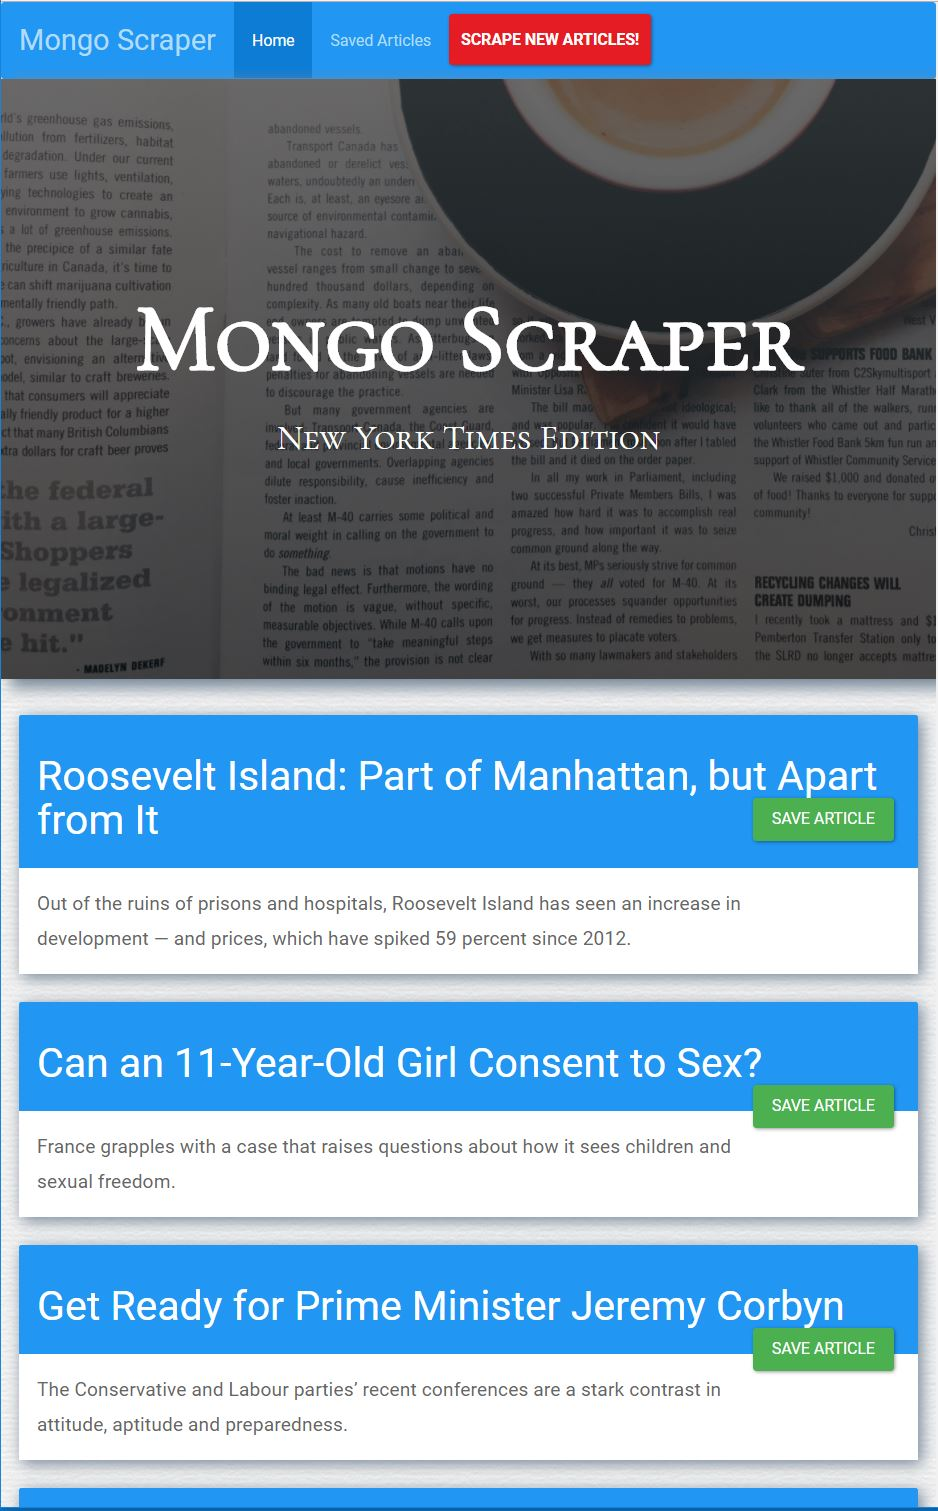
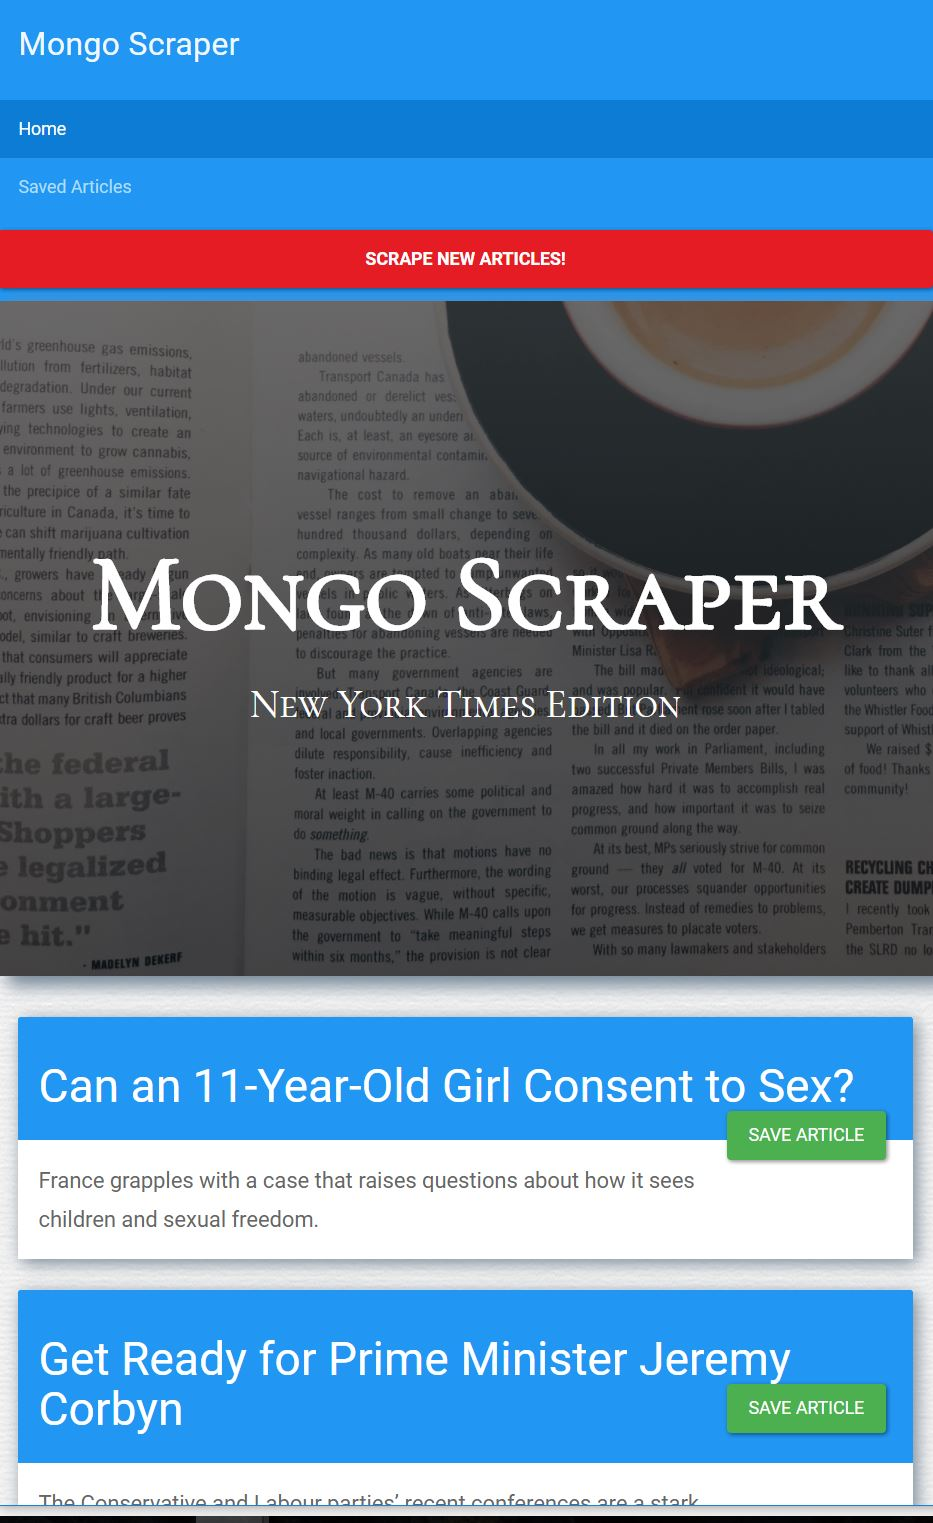
markdown edit

diff --git a/README.md b/README.md
@@ -45,9 +45,11 @@ The "saved" page should look like this:
 
 The mobile layout of the site should look like this:
 
-![Mobile Page](/public/assets/images/mobile.JPG)
+![Mobile Page](/assets/images/mobile.JPG)
 
-The site is best viewed on a large desktop (1680x1050 and up), but looks good on any modern device's screen resolution. This includes both a 10" and 12" Netbook, a 13" and 15" notebook, 19"-24" desktops, Kindle Fire, Asus Nexus 7, iPad and iPad Pro, Samsung Galaxy tab, Microsoft Surface Pro, iPhone 3 and up (including iPhone 6-7 plus), Galaxy S2 and up, LG G 3-5, and 480p, 720p and 1080p televisions. 
+**(top part of page; the rest of the page is visible if one keeps scrolling)**
+
+The site is best viewed on a large desktop (1680x1050 and up), but looks good on essentially any modern device's screen resolution. This includes both a 10" and 12" Netbook, a 13" and 15" notebook, 19"-24" desktops, Kindle Fire, Asus Nexus 7, iPad and iPad Pro, Samsung Galaxy tab, Microsoft Surface Pro, iPhone 3 and up (including iPhone 6-7 plus), Galaxy S2 and up, LG G 3-5, and 480p, 720p and 1080p televisions. 
 
 ## Future Plans for Improvement
 * Add individual user accounts/logins.
